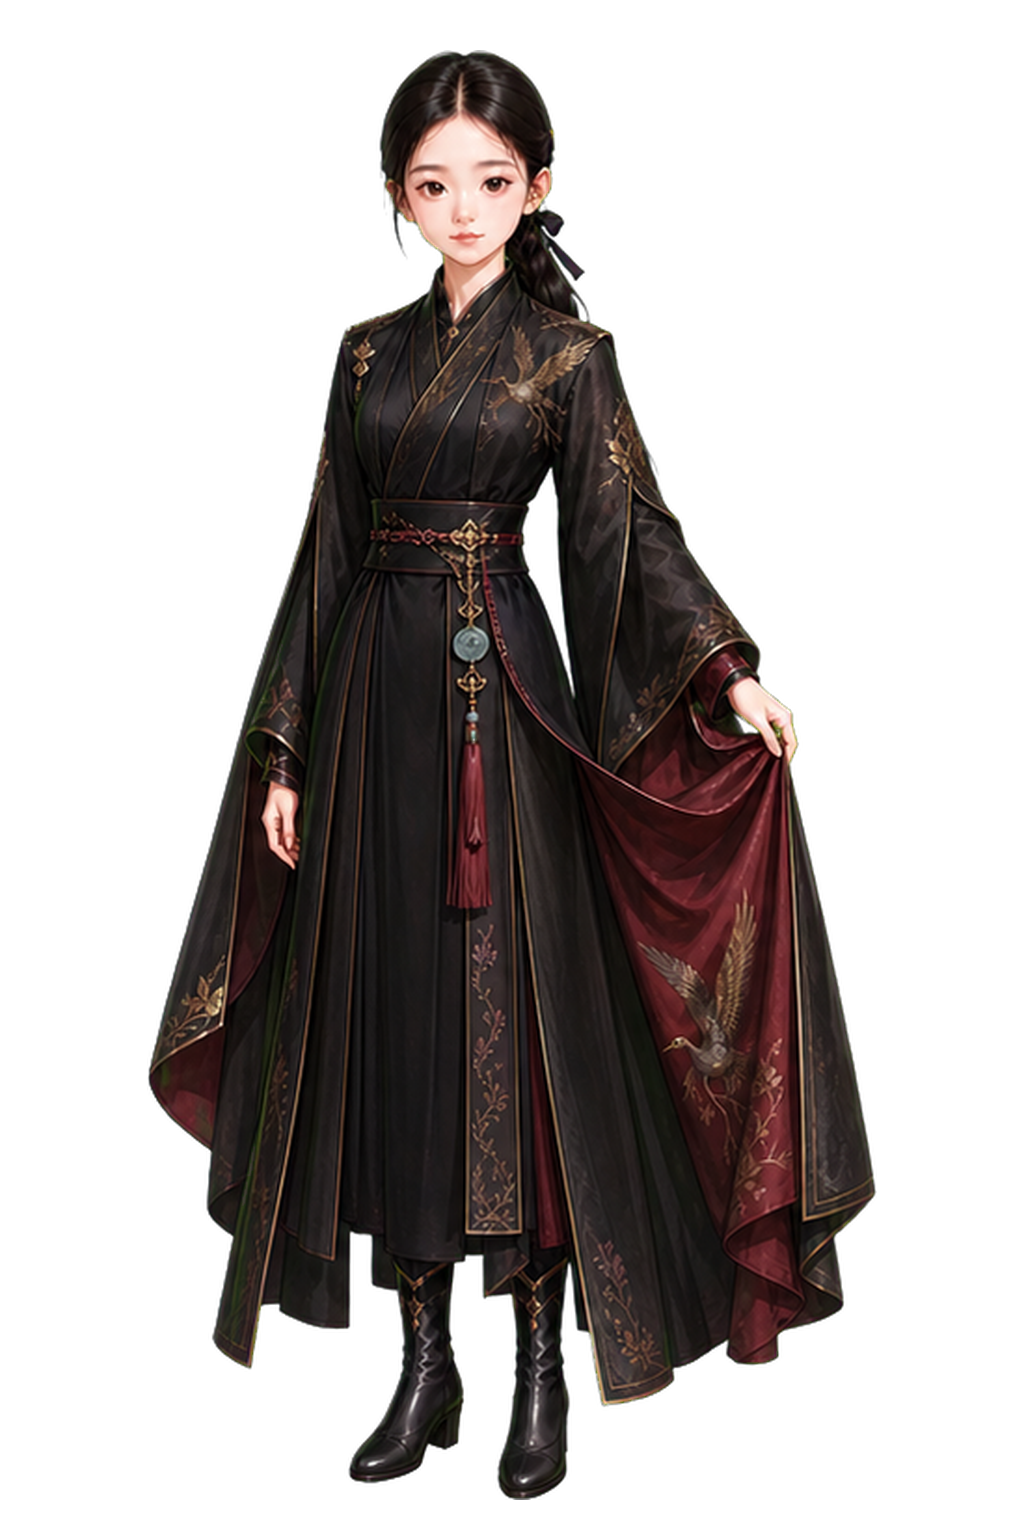
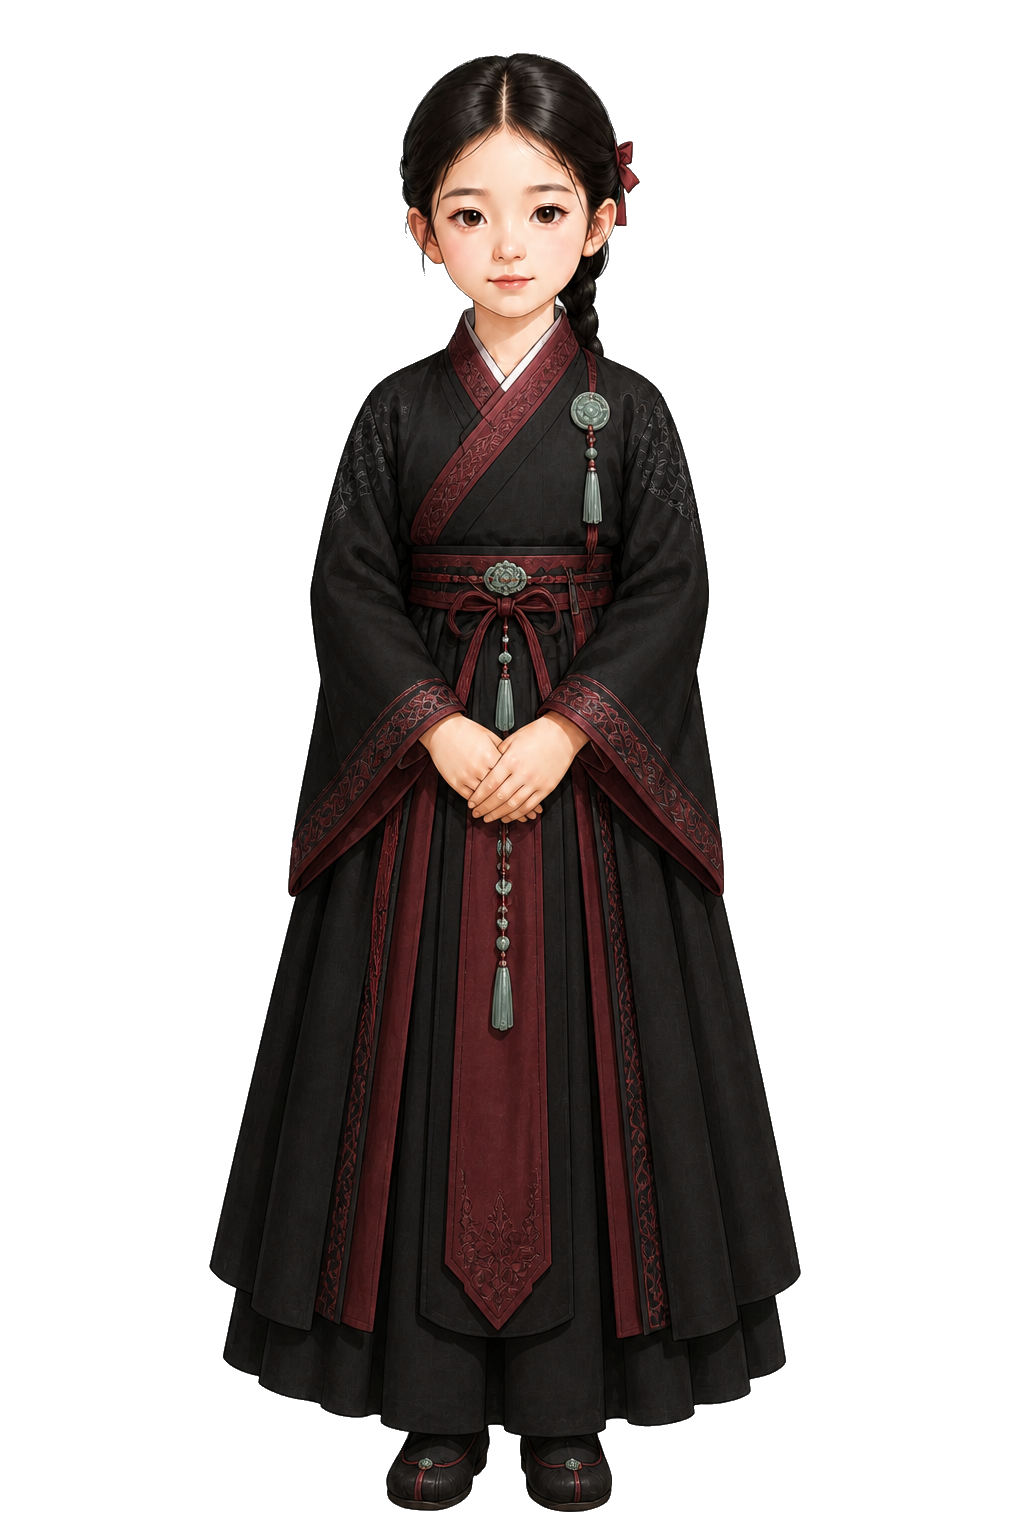
feat: expand visiting shop and age-gated jobs

Changed region(s): [[0.125, 0.0312, 0.875, 1.0]]

diff --git a/src/app.js b/src/app.js
@@ -131,6 +131,13 @@ const actionPresentation = {
   manners: { motion:'motion-manners', location:'etiquetteRoom', prop:'none', activity:'manners', npc:'teacher' }, errand: { motion:'motion-errand', location:'marketErrand', prop:'none', activity:'errand', npc:null },
   sweeping: { motion:'motion-sweeping', location:'courtyard', prop:'none', activity:'sweeping', npc:'dolsoe' }, herbs: { motion:'motion-herbs', location:'herbField', prop:'none', activity:'herbs', npc:'herbalist' },
   houseclean: { motion:'motion-houseclean', location:'restRoom', prop:'none', activity:'houseclean', npc:null },
+  farmwork: { motion:'motion-herbs', location:'herbField', prop:'none', activity:'herbs', npc:'herbalist' },
+  childcare: { motion:'motion-houseclean', location:'restRoom', prop:'none', activity:'houseclean', npc:null },
+  kitchenhelp: { motion:'motion-arithmetic', location:'restRoom', prop:'none', activity:'arithmetic', npc:null },
+  woodwork: { motion:'motion-sweeping', location:'courtyard', prop:'none', activity:'sweeping', npc:'dolsoe' },
+  loomwork: { motion:'motion-houseclean', location:'restRoom', prop:'none', activity:'houseclean', npc:null },
+  masonry: { motion:'motion-sweeping', location:'courtyard', prop:'none', activity:'sweeping', npc:'dolsoe' },
+  clinichelp: { motion:'motion-herbs', location:'herbField', prop:'none', activity:'herbs', npc:'herbalist' },
   rest: { motion:'motion-resting', location:'restRoom', prop:'none', activity:'sleep', npc:null },
   sleep: { motion:'motion-sleep', location:'restRoom', prop:'none', activity:'sleep', npc:null },
   shopping: { motion:'motion-walk', location:'marketErrand', prop:'none', activity:null, npc:null },
@@ -143,6 +150,8 @@ const actionPresentation = {
   innhelp: { motion:'motion-errand', location:'marketErrand', prop:'none', activity:'errand', npc:null },
   sewing: { motion:'motion-houseclean', location:'restRoom', prop:'none', activity:'houseclean', npc:null },
   copying: { motion:'motion-calligraphy', location:'studyRoom', prop:'none', activity:'calligraphy', npc:'teacher' },
+  ferryhelp: { motion:'motion-errand', location:'marketErrand', prop:'none', activity:'errand', npc:null },
+  merchanthelp: { motion:'motion-errand', location:'marketErrand', prop:'none', activity:'errand', npc:null },
   accounting: { motion:'motion-arithmetic', location:'arithmeticRoom', prop:'none', activity:'arithmetic', npc:'teacher' },
   tutoring: { motion:'motion-calligraphy', location:'studyRoom', prop:'none', activity:'calligraphy', npc:'teacher' },
   dungeon: { motion:'motion-herbs', location:'herbField', prop:'none', activity:'herbs', npc:null }
@@ -226,7 +235,7 @@ activityFrames.houseclean=[1,2,3,4,5,6].map(n=>`../assets/characters/seonhwa/age
 activityFrames.sleep=[...activityFrames.rest];
 // v0.62.55: face-consistent awake sprites and a simple tea-only rest loop.
 activityFrames.sweeping=[1,2,3].map(n=>`../assets/characters/seonhwa/activity-consistent/age-09/sweeping-legacy-${n}.png`);
-activityFrames.errand=[1,2,3].map(n=>`../assets/characters/seonhwa/activity-consistent/age-09/errand-legacy-${n}.png`);
+activityFrames.errand=[1,2,3].map(n=>`../assets/characters/seonhwa/age-09/sprites/activities/errand-character-v4-${n}.png`);
 activityFrames.herbs=[1,2,3].map(n=>`../assets/characters/seonhwa/activity-consistent/age-09/herbs-legacy-${n}.png`);
 activityFrames.tea=[1,1,1].map(n=>`../assets/characters/seonhwa/activity-consistent/age-09/rest-legacy-${n}.png`);
 // The modular errand frames crop the top of the hair in frame 1. Keep the complete v4 frames.
@@ -249,6 +258,16 @@ const foods = [
   {id:'samgyetang',name:'삼계탕',detail:'닭과 약재를 푹 고은 탕',price:110,change:{stress:-5,healthiness:6}},
   {id:'galbijjim',name:'갈비찜',detail:'부드럽게 익힌 갈비',price:120,change:{stress:-9,healthiness:3}},
   {id:'jeongol',name:'전골',detail:'채소와 고기를 끓인 전골',price:95,change:{stress:-7,healthiness:5}}
+];
+const generalGoods = [
+  {id:'wooden-doll',name:'나무 인형',price:120,type:'accessory',detail:'마음을 달래 주는 작은 장난감',change:{sensitivity:4,stress:-12}},
+  {id:'basic-book',name:'천자문 서책',price:120,type:'event',detail:'글공부의 기초가 되는 서책',change:{intelligence:8}},
+  {id:'poetry-book',name:'시조 모음집',price:400,type:'event',detail:'고운 운율을 익히는 시집',change:{sensitivity:12,speech:3}},
+  {id:'ceramic-cup',name:'백자 찻잔',price:500,type:'accessory',detail:'차를 마실 때 쓰는 단정한 백자',change:{dignity:10,manners:3}},
+  {id:'herbal-pill',name:'회복 환약',price:80,type:'accessory',detail:'기운을 회복시키는 약방의 환약',change:{health:10,stress:-4},repeatable:true},
+  {id:'guardian-bell',name:'신수 방울',price:1000,type:'accessory',detail:'수호령의 기운을 맑게 울리는 방울',change:{magic:12,mentality:8},wealth:1000},
+  {id:'coral-norigae',name:'산호 노리개',price:1500,type:'accessory',detail:'귀한 산호로 엮은 장신구',change:{charm:14,dignity:8},wealth:3000},
+  {id:'jade-hairpin',name:'백옥 비녀',price:2200,type:'accessory',detail:'맑은 빛을 품은 상단의 귀물',change:{charm:18,reputation:10,manners:5},wealth:5000}
 ];
 const outfits = [
   {id:'age09-neat',age:9,ageEnd:12,name:'단정한 배움 한복',price:180,tone:'단정함',seasons:['가을','겨울'],situations:['reading','arithmetic','manners'],change:{manners:4,virtue:3,charm:1}},
@@ -277,6 +296,7 @@ const outfits = [
   {id:'premium-ink-scholar',age:9,ageEnd:18,name:'먹빛 서생 예복',price:1600,tone:'고급',seasons:['가을','겨울'],situations:['reading','arithmetic','manners'],change:{study:10,arts:8,reputation:7,charm:6}}
 ];
 foods.forEach(item=>{item.change=canonicalizeChange(item.change);});
+generalGoods.forEach(item=>{item.change=canonicalizeChange(item.change);});
 outfits.forEach(item=>{item.change=canonicalizeChange(item.change);});
 const outfitAgeLabel=outfit=>outfit.age===outfit.ageEnd?`${outfit.age}세`:`${outfit.age}–${outfit.ageEnd}세`;
 const outfitAvailable=outfit=>game.age>=outfit.age&&game.age<=outfit.ageEnd;
@@ -394,7 +414,7 @@ function conditionEvent(stress, dayIndex){
   if(stress>=55)return 'drowsy';
   return null;
 }
-const activitySkill={reading:'intelligence',arithmetic:'sense',manners:'manners',painting:'sensitivity',music:'sensitivity',dance:'agility',cooking:'sense',martial:'strength',classics:'intelligence',errand:'speech',sweeping:'strength',herbs:'sense',houseclean:'sense',innhelp:'speech',sewing:'sense',copying:'intelligence',accounting:'sense',tutoring:'intelligence',dungeon:'strength',rest:'mentality'};
+const activitySkill={reading:'intelligence',arithmetic:'sense',manners:'manners',painting:'sensitivity',music:'sensitivity',dance:'agility',cooking:'sense',martial:'strength',classics:'intelligence',errand:'speech',sweeping:'strength',herbs:'sense',houseclean:'sense',farmwork:'strength',childcare:'sensitivity',kitchenhelp:'sense',woodwork:'strength',loomwork:'sense',masonry:'strength',clinichelp:'intelligence',innhelp:'speech',sewing:'sense',copying:'intelligence',ferryhelp:'health',merchanthelp:'speech',accounting:'sense',tutoring:'intelligence',dungeon:'strength',rest:'mentality'};
 const outcomeLabels={perfect:'완벽',success:'성공',struggle:'힘겨움',mistake:'실수'};
 function activityOutcomeThresholds(action,stress){
   const skill=game[activitySkill[action.id]]||0;
@@ -494,9 +514,18 @@ const actions = [
   { id: 'sweeping', category: '아르바이트', name: '마당 쓸기', cost: -70, unlockAge:9, mentor:'돌쇠', icon:'sweeping', summary: '힘 +3 · 체력 +2 · 스트레스 +3 · 70냥 획득', change: { strength:3, health:2, stress:3 } },
   { id: 'herbs', category: '아르바이트', name: '약초 줍기', cost: -80, unlockAge:9, mentor:'약초꾼', icon:'herbs', summary: '센스 +2 · 지능 +1 · 체력 +1 · 스트레스 +4 · 80냥 획득', change: { sense:2, intelligence:1, health:1, stress:4 } },
   { id: 'houseclean', category: '아르바이트', name: '집 청소', cost: -60, unlockAge:9, mentor:'신수', icon:'houseclean', summary: '힘 +2 · 센스 +2 · 체력 +1 · 스트레스 +3 · 60냥 획득', change: { strength:2, sense:2, health:1, stress:3 } },
+  { id:'farmwork',category:'아르바이트',name:'농가 일손 돕기',cost:-100,unlockAge:10,mentor:'농가 어른',icon:'herbs',summary:'체력 +3 · 힘 +3 · 기품 -1 · 스트레스 +4 · 100냥 획득',change:{health:3,strength:3,dignity:-1,stress:4}},
+  { id:'childcare',category:'아르바이트',name:'아이 돌보기',cost:-85,unlockAge:10,mentor:'마을 어른',icon:'houseclean',summary:'감수성 +3 · 도덕 +2 · 스트레스 +4 · 85냥 획득',change:{sensitivity:3,virtue:2,stress:4}},
+  { id:'kitchenhelp',category:'아르바이트',name:'주방 보조',cost:-115,unlockAge:10,mentor:'찬모',icon:'arithmetic',summary:'센스 +3 · 체력 +2 · 스트레스 +4 · 115냥 획득',change:{sense:3,health:2,stress:4}},
+  { id:'woodwork',category:'아르바이트',name:'목공소 심부름',cost:-135,unlockAge:11,mentor:'목수',icon:'sweeping',summary:'힘 +4 · 센스 +2 · 스트레스 +5 · 135냥 획득',change:{strength:4,sense:2,stress:5}},
+  { id:'loomwork',category:'아르바이트',name:'베틀방 돕기',cost:-140,unlockAge:11,mentor:'직조 장인',icon:'houseclean',summary:'센스 +4 · 감수성 +2 · 스트레스 +4 · 140냥 획득',change:{sense:4,sensitivity:2,stress:4}},
+  { id:'masonry',category:'아르바이트',name:'기와·흙벽 보조',cost:-165,unlockAge:12,mentor:'와공',icon:'sweeping',summary:'체력 +4 · 힘 +4 · 기품 -2 · 스트레스 +5 · 165냥 획득',change:{health:4,strength:4,dignity:-2,stress:5}},
+  { id:'clinichelp',category:'아르바이트',name:'약방 견습',cost:-170,unlockAge:12,unlockStats:{intelligence:70,sense:45},mentor:'의원',icon:'herbs',summary:'지능 +3 · 센스 +3 · 도덕 +1 · 스트레스 +4 · 170냥 획득',change:{intelligence:3,sense:3,virtue:1,stress:4}},
   { id: 'innhelp', category:'아르바이트', name:'주막 돕기', cost:-110, unlockAge:13, mentor:'주모', icon:'errand', intro:'손님상은 빠르게, 말씨는 상냥하게 부탁하마.', summary:'화술 +3 · 체력 +2 · 스트레스 +4 · 110냥 획득', change:{speech:3,health:2,stress:4} },
   { id: 'sewing', category:'아르바이트', name:'바느질 돕기', cost:-120, unlockAge:13, mentor:'침선장', icon:'houseclean', intro:'작은 바늘땀 하나가 옷의 맵시를 정하는 법이란다.', summary:'센스 +4 · 감수성 +1 · 스트레스 +3 · 120냥 획득', change:{sense:4,sensitivity:1,stress:3} },
   { id: 'copying', category:'아르바이트', name:'서책 필사', cost:-130, unlockAge:13, mentor:'서책방 주인', icon:'reading', intro:'또박또박 옮겨 적되 원문의 한 자도 빠뜨리지 말거라.', summary:'지능 +3 · 센스 +2 · 스트레스 +4 · 130냥 획득', change:{intelligence:3,sense:2,stress:4} },
+  { id:'ferryhelp',category:'아르바이트',name:'나루터 짐 정리',cost:-190,unlockAge:14,mentor:'나루지기',icon:'errand',summary:'체력 +3 · 화술 +3 · 민첩 +2 · 스트레스 +5 · 190냥 획득',change:{health:3,speech:3,agility:2,stress:5}},
+  { id:'merchanthelp',category:'아르바이트',name:'상점 판매 보조',cost:-205,unlockAge:14,unlockStats:{speech:55,sense:60},mentor:'잡화상',icon:'errand',summary:'화술 +4 · 센스 +3 · 평판 +1 · 스트레스 +5 · 205냥 획득',change:{speech:4,sense:3,reputation:1,stress:5}},
   { id: 'accounting', category:'아르바이트', name:'상단 장부 정리', cost:-180, unlockAge:16, mentor:'상단 행수', icon:'arithmetic', intro:'숫자 하나가 상단의 신뢰를 좌우하니 꼼꼼히 살펴보거라.', summary:'센스 +4 · 화술 +2 · 스트레스 +4 · 180냥 획득', change:{sense:4,speech:2,stress:4} },
   { id: 'tutoring', category:'아르바이트', name:'학동 가르치기', cost:-230, unlockAge:16, unlockStats:{intelligence:140,manners:80,speech:60}, mentor:'서당 훈장', icon:'reading', intro:'배운 바가 충분하니 이제 어린 학동에게 글과 셈, 예절을 일러 주거라.', summary:'지능 +2 · 화술 +4 · 기품 +2 · 스트레스 +5 · 230냥 획득', change:{intelligence:2,speech:4,dignity:2,stress:5} },
   { id: 'rest', category: '휴식', name: '집에서 휴식', cost: 0, summary: '스트레스 -12 · 체력 +2 · 정신력 +2', change: { health:2, mentality:2, stress:-12 } },
@@ -777,6 +806,9 @@ function openPanel(type) {
   } else if (type === 'inventory') {
     playHomeMusic();
     renderInventory();
+  } else if (type === 'shop') {
+    playHomeMusic();
+    renderVisitShop();
   } else if (type === 'collection') {
     playHomeMusic();
     renderVacationCollection();
@@ -784,6 +816,19 @@ function openPanel(type) {
     playHomeMusic();
     renderSavePanel();
   }
+}
+
+function renderVisitShop(){
+  normalizeInventory();panelTitle.textContent='방문상점 · 잡화전';
+  const owned=new Set(game.items.map(item=>item.id));
+  const cards=generalGoods.filter(item=>!item.wealth||game.money>=item.wealth).map(item=>{const sold=!item.repeatable&&owned.has(item.id),disabled=sold||game.money<item.price;return `<button class="shop-card goods-card" data-general-good="${item.id}" ${disabled?'disabled':''}><i class="item-glyph type-${item.type}"></i><b>${item.name}</b><span>${item.price}냥</span><small>${item.detail}<br>${formatChanges(item.change)}${sold?'<br>보유 중':''}</small></button>`;}).join('');
+  panelBody.innerHTML=`<div class="shop-greeting"><div class="merchant-seal" aria-hidden="true">商</div><div><b>떠돌이 잡화상</b><p>서책과 장신구, 먼 지방에서 온 귀물을 살펴보세요.</p></div></div><div class="shop-money"><span>보유 은전 <b>${game.money.toLocaleString()}냥</b></span></div><p class="visit-shop-note">재산이 늘면 상인이 더 귀한 물건을 꺼내 보입니다.</p><div class="shop-grid">${cards}</div>`;
+  panelBody.querySelectorAll('[data-general-good]').forEach(button=>button.addEventListener('click',()=>buyGeneralGood(button.dataset.generalGood)));
+}
+function buyGeneralGood(id){
+  normalizeInventory();const good=generalGoods.find(item=>item.id===id);if(!good||game.money<good.price)return;const owned=game.items.find(item=>item.id===id);if(owned&&!good.repeatable)return;
+  game.money-=good.price;applyShopChanges(good.change);if(owned)owned.qty=(owned.qty||1)+1;else game.items.push({id:good.id,type:good.type,name:good.name,description:good.detail,qty:1});
+  document.querySelector('#dialogueText').textContent=`잡화상에게서 ${good.name}${objectParticle(good.name)} 구입했어요.`;showLiveChanges({change:good.change,cost:good.price});renderHud();renderVisitShop();queueAutoSave();
 }
 const inventoryCategories={all:'전체',accessory:'장신구',event:'이벤트'};
 const inventoryTypeLabels={food:'음식',outfit:'의상',accessory:'장신구',event:'이벤트'};
@@ -1605,7 +1650,7 @@ async function playWeeklySchedule(selected) {
       await animateConditionEvent(stageCharacter,conditionCue,condition);
     }
     setScheduleDialogue(action,outcome,index);
-    stageCharacter.className = `stage-character pixel-sprite ${presentation.motion}`;
+    stageCharacter.className = `stage-character pixel-sprite ${presentation.motion}${restActivity==='tea'?' rest-tea':''}`;
     const actualChange={};
     Object.entries(resolvedChange).forEach(([key,value])=>{const before=clampStat(key,game[key]||0),after=clampStat(key,before+value);game[key]=after;actualChange[key]=after-before;});
     const resolvedAction={...action,cost:-moneyChange,change:actualChange};

diff --git a/src/index.html b/src/index.html
@@ -5,7 +5,7 @@
   <meta name="viewport" content="width=device-width,initial-scale=1,viewport-fit=cover">
   <title>선화공주 만들기 — 자산 로딩 테스트</title>
   <link rel="stylesheet" href="style.css?v=0.62.18-debug">
-  <link rel="stylesheet" href="schedule.css?v=0.62.55-debug">
+  <link rel="stylesheet" href="schedule.css?v=0.62.56-debug">
   <link rel="stylesheet" href="schedule-pm2.css?v=0.62.09-debug">
   <link rel="stylesheet" href="birthday.css?v=0.62.55-debug">
   <link rel="stylesheet" href="prologue.css?v=0.62.28-debug">
@@ -41,7 +41,7 @@
       </div>
       <span class="loading-caption">이야기를 열 준비가 되었어요</span>
       <button class="studio-start-sound" id="studioStartSound" type="button">인연의 문을 열기</button>
-      <small class="loading-version" aria-label="현재 게임 버전">v0.62.55-debug</small>
+      <small class="loading-version" aria-label="현재 게임 버전">v0.62.56-debug</small>
     </section>
     <section class="prologue" id="prologue" aria-label="이야기 시작 영상" hidden>
       <audio id="prologueMusic" src="../assets/audio/music/prologue-lantern-and-dawn.mp3" preload="auto" loop></audio>
@@ -156,7 +156,7 @@
       <div class="activity-gauges" id="activityGauges" hidden aria-label="이번 활동의 능력치 변화"></div>
       <div class="day-result" id="dayResult" hidden></div>
     </section>
-    <nav><button data-panel="schedule">일정</button><button data-panel="status">상태</button><button data-panel="inventory">소지품</button><button data-panel="collection">수집도감</button><button id="marketFinish" type="button">집으로 돌아가기</button></nav>
+    <nav><button data-panel="schedule">일정</button><button data-panel="status">상태</button><button data-panel="inventory">소지품</button><button data-panel="shop">방문상점</button><button data-panel="collection">수집도감</button><button id="marketFinish" type="button">집으로 돌아가기</button></nav>
     <section class="panel" id="panel" hidden aria-live="polite">
       <div class="panel-head"><h2 id="panelTitle"></h2><button id="closePanel" aria-label="닫기">×</button></div>
       <div id="panelBody"></div>
@@ -196,6 +196,6 @@
       </div>
     </section>
   </main>
-  <script src="story-data.js?v=0.62.55-debug"></script><script src="app.js?v=0.62.55-debug"></script>
+  <script src="story-data.js?v=0.62.56-debug"></script><script src="app.js?v=0.62.56-debug"></script>
 </body>
 </html>

diff --git a/src/style.css b/src/style.css
@@ -18,3 +18,4 @@ body{min-height:100dvh}.phone{width:min(100vw,calc(100dvh * 9 / 16),430px);max-h
 .relation-card i{position:absolute;left:0;right:0;bottom:0;height:4px;background:linear-gradient(90deg,#8ba96b var(--relation-progress),#e7dbc7 var(--relation-progress))}
 .relation-card.unlocked{border-color:#bc8b28;background:#fff4c7}.relation-card.unlocked span{font-weight:700;color:#8a5b00}
 @media(max-width:380px){.relation-grid{grid-template-columns:1fr}}
+.merchant-seal{display:grid;place-items:center;flex:0 0 58px;height:58px;border:2px solid #76502c;border-radius:50%;background:#f1ddae;color:#6a3d20;font:900 28px serif;box-shadow:inset 0 0 0 4px #fff7df}.visit-shop-note{margin:8px 0 12px;padding:8px;border-radius:9px;background:#f5e8c8;color:#6a4a2c;font-size:11px}.goods-card .item-glyph{display:grid;width:64px;height:64px;margin:auto;border-radius:14px;background:linear-gradient(145deg,#f8e7bd,#a97842);box-shadow:inset 0 0 0 2px #fff9df,0 4px 8px #4c2f1d55}.goods-card .item-glyph:after{content:'物';margin:auto;color:#5e3c24;font:900 30px serif}

diff --git a/src/schedule.css b/src/schedule.css
@@ -343,6 +343,12 @@
   left:50%;bottom:1%;width:206px;height:132px;padding:0;animation:none!important;
 }
 .activity-stage.action-rest .stage-character.pixel-sprite.motion-resting:after{display:none;}
+.activity-stage.action-rest .stage-character.pixel-sprite.motion-resting.rest-tea{
+  left:50%;bottom:0;width:132px;height:132px;padding:0;overflow:visible;
+}
+.activity-stage.action-rest .stage-character.pixel-sprite.motion-resting.rest-tea img{
+  width:100%;height:100%;object-fit:contain;object-position:center bottom;clip-path:none;
+}
 .activity-stage.action-rest .stage-caption{
   top:8px;bottom:auto;left:8%;right:8%;z-index:5;padding:6px 10px;
   overflow:hidden;white-space:nowrap;text-overflow:ellipsis;font-size:11px;

diff --git a/tools/clean_wardrobe_transparency.py b/tools/clean_wardrobe_transparency.py
@@ -1,0 +1,46 @@
+from collections import deque
+from pathlib import Path
+
+from PIL import Image
+
+
+FILES = (
+    "age18-cash-ember-ethnic.png",
+    "age18-cash-ink-scholar.png",
+    "age18-cash-rose-paisley.png",
+    "age18-cash-solar-ceremony.png",
+    "age18-cash-starlight-pink.png",
+    "age18-ethnic-stage-v3.png",
+)
+ROOT = Path(__file__).resolve().parents[1] / "assets/characters/seonhwa/wardrobe/age-09"
+
+
+def clear_light_edge(image: Image.Image) -> Image.Image:
+    rgba = image.convert("RGBA")
+    pixels = rgba.load()
+    width, height = rgba.size
+    queue = deque((x, y) for x in range(width) for y in (0, height - 1))
+    queue.extend((x, y) for y in range(height) for x in (0, width - 1))
+    seen = set()
+    while queue:
+        x, y = queue.popleft()
+        if (x, y) in seen:
+            continue
+        seen.add((x, y))
+        r, g, b, alpha = pixels[x, y]
+        if alpha < 8:
+            pass
+        elif min(r, g, b) < 178 or max(r, g, b) - min(r, g, b) > 24:
+            continue
+        pixels[x, y] = (r, g, b, 0)
+        for nx, ny in ((x - 1, y), (x + 1, y), (x, y - 1), (x, y + 1)):
+            if 0 <= nx < width and 0 <= ny < height and (nx, ny) not in seen:
+                queue.append((nx, ny))
+    return rgba
+
+
+for filename in FILES:
+    path = ROOT / filename
+    cleaned = clear_light_edge(Image.open(path))
+    cleaned.save(path, optimize=True)
+    print(filename, cleaned.size, cleaned.getchannel("A").getextrema())

diff --git a/README.md b/README.md
@@ -1,5 +1,13 @@
 # 선화공주 만들기 — MVP 이미지 자산 패키지
 
+## v0.62.56-debug · 방문상점·직업 확장 및 9세 얼굴 보정
+
+- 프메2의 잡화점·방문상인 기능을 참고해 서책·인형·찻잔·환약·신수 방울·노리개·비녀 8종을 한국 고전풍 아이템으로 재설계했습니다.
+- 재산 1,000·3,000·5,000냥 구간에 따라 희귀 상품이 추가로 보이며, 고유 물품은 중복 구매할 수 없습니다.
+- 10~14세에 농가·아이 돌보기·주방·목공소·베틀방·기와·약방·나루터·판매 보조가 순차적으로 열리도록 아르바이트를 확장했습니다.
+- 장터 심부름은 기존 v4 원화로 복구하고, 차 마시기 장면의 머리 잘림을 수정했습니다.
+- 9세 캐시 의상 6벌을 기준 얼굴과 아동 체형으로 다시 제작하고 투명 배경을 정리했습니다.
+
 ## v0.62.55-debug · 일정 얼굴 일관성 및 단순 휴식 연출
 
 - 9·13·16·19세 공통 일정 프레임의 검은 눈을 작은 갈색 눈과 자연스러운 시선으로 교체했습니다.
